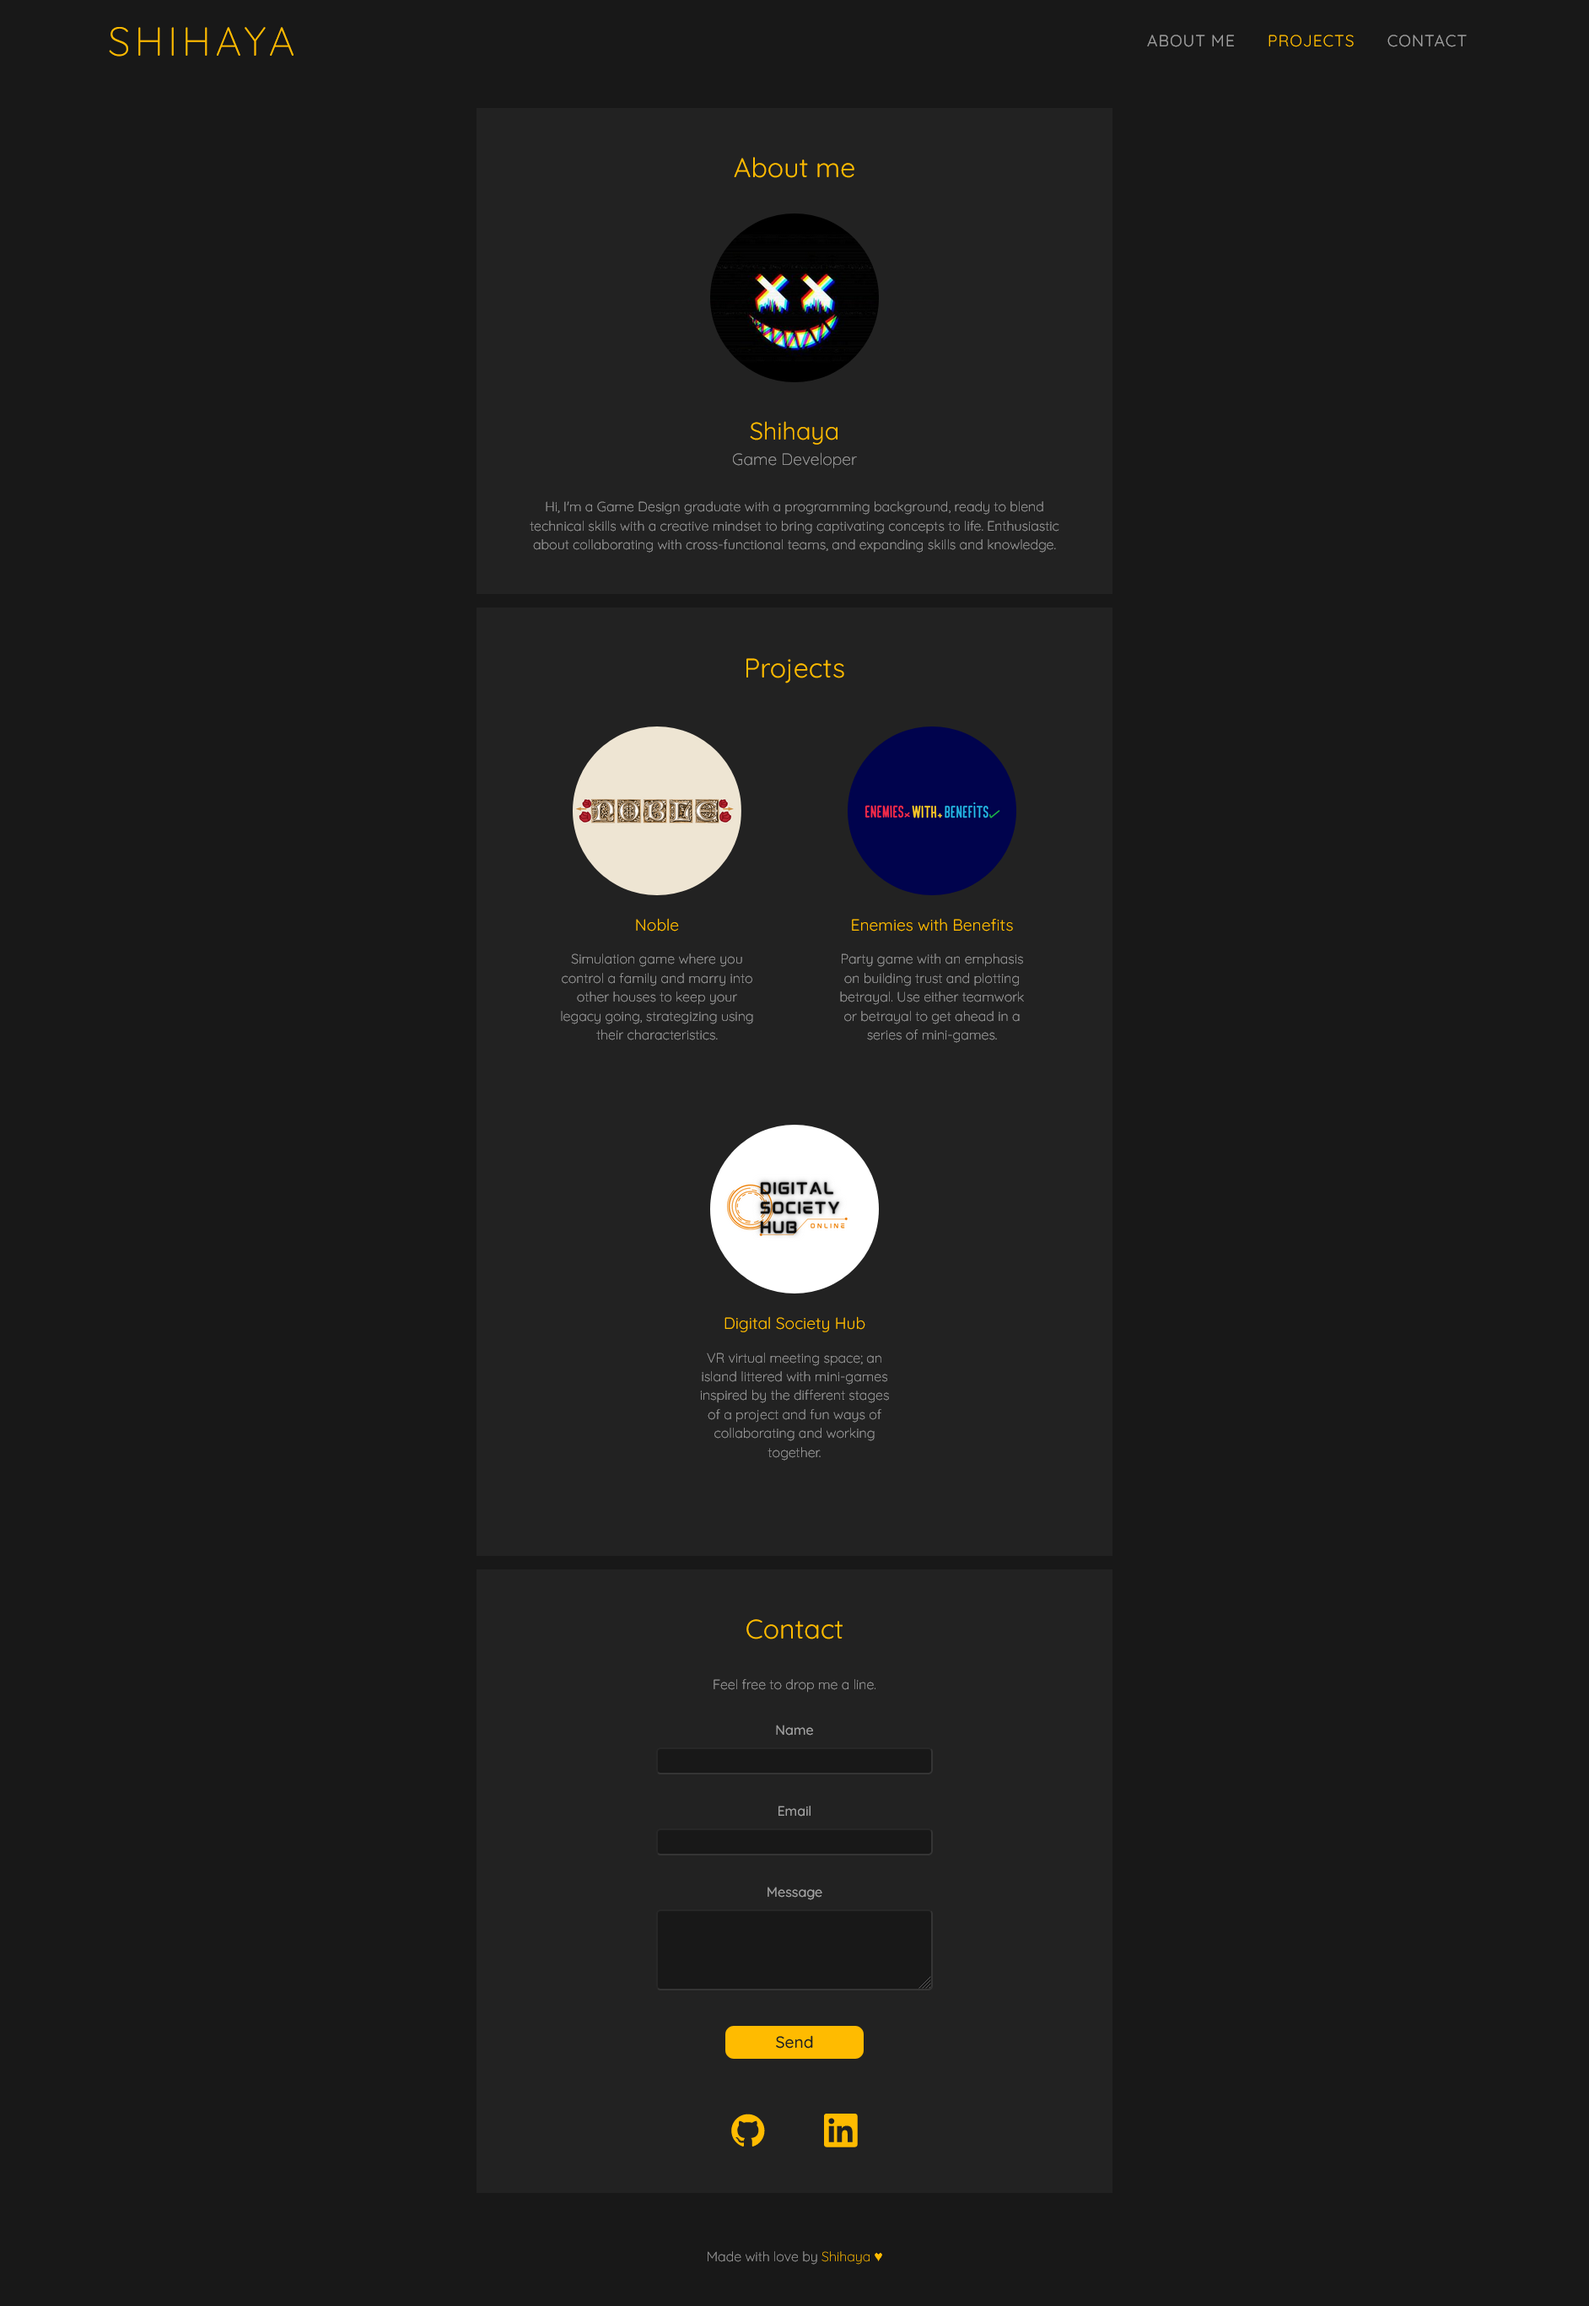
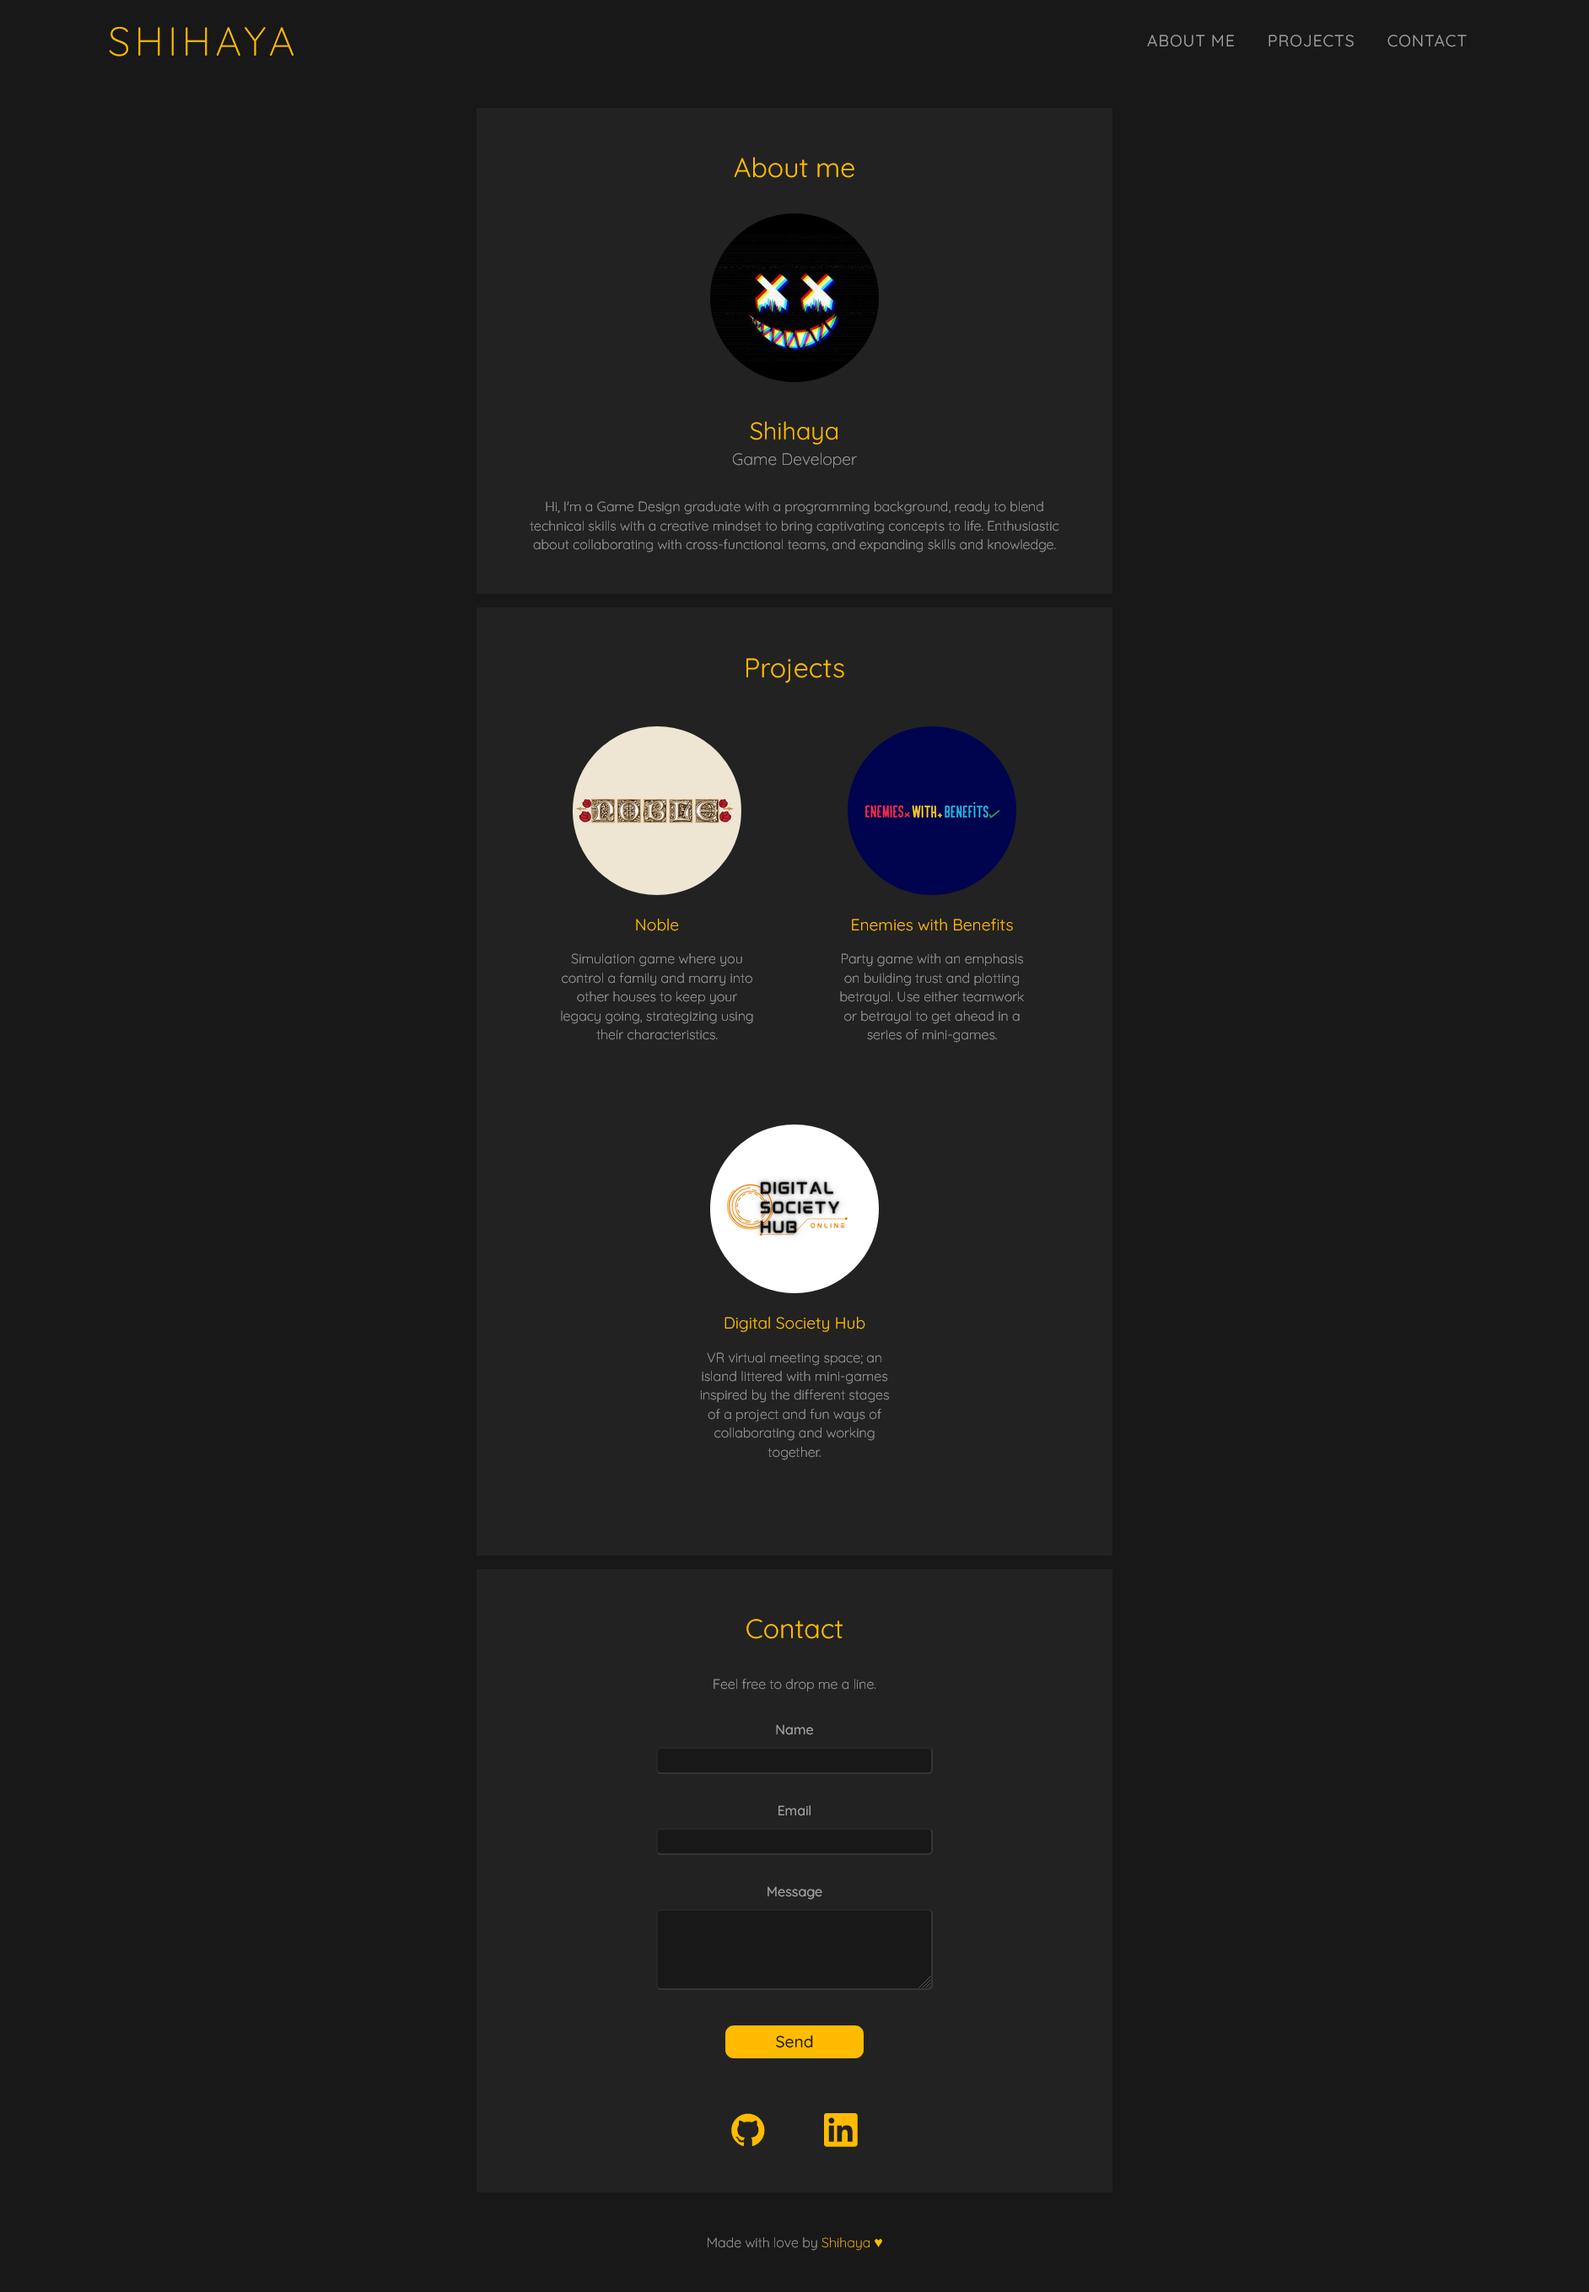
Add minor updates

diff --git a/Codedex CSS Final Project/index.html b/Codedex CSS Final Project/index.html
@@ -3,7 +3,7 @@
 <head>
     <meta charset="UTF-8">
     <meta name="viewport" content="width=device-width, initial-scale=1.0">
-    <title>Personal Site</title>
+    <title>Shihaya's Personal Site</title>
     <link href="styles.css" rel="stylesheet"/>
     <link rel="preconnect" href="https://fonts.googleapis.com">
     <link rel="preconnect" href="https://fonts.gstatic.com" crossorigin>

diff --git a/Codedex CSS Final Project/styles.css b/Codedex CSS Final Project/styles.css
@@ -197,7 +197,7 @@ main {
 
 footer{
     text-align: center;
-    margin: 4rem 0 3rem 0;
+    margin: 3rem 0 3rem 0;
 
     span {
         color: #ffbb00;
